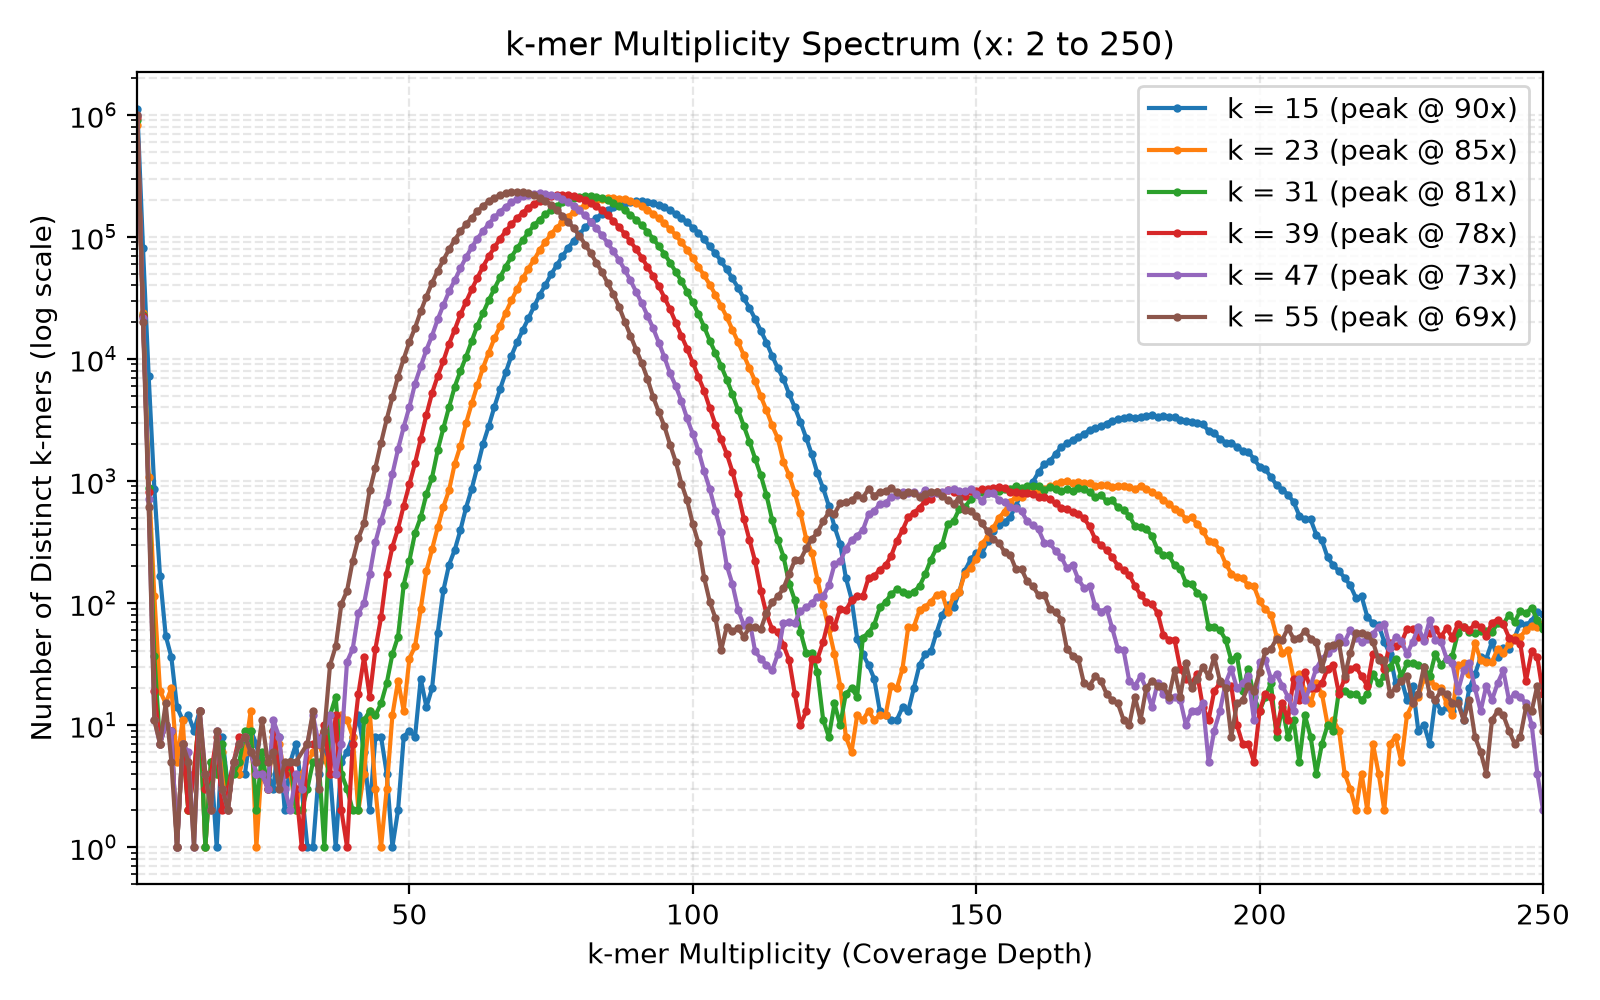
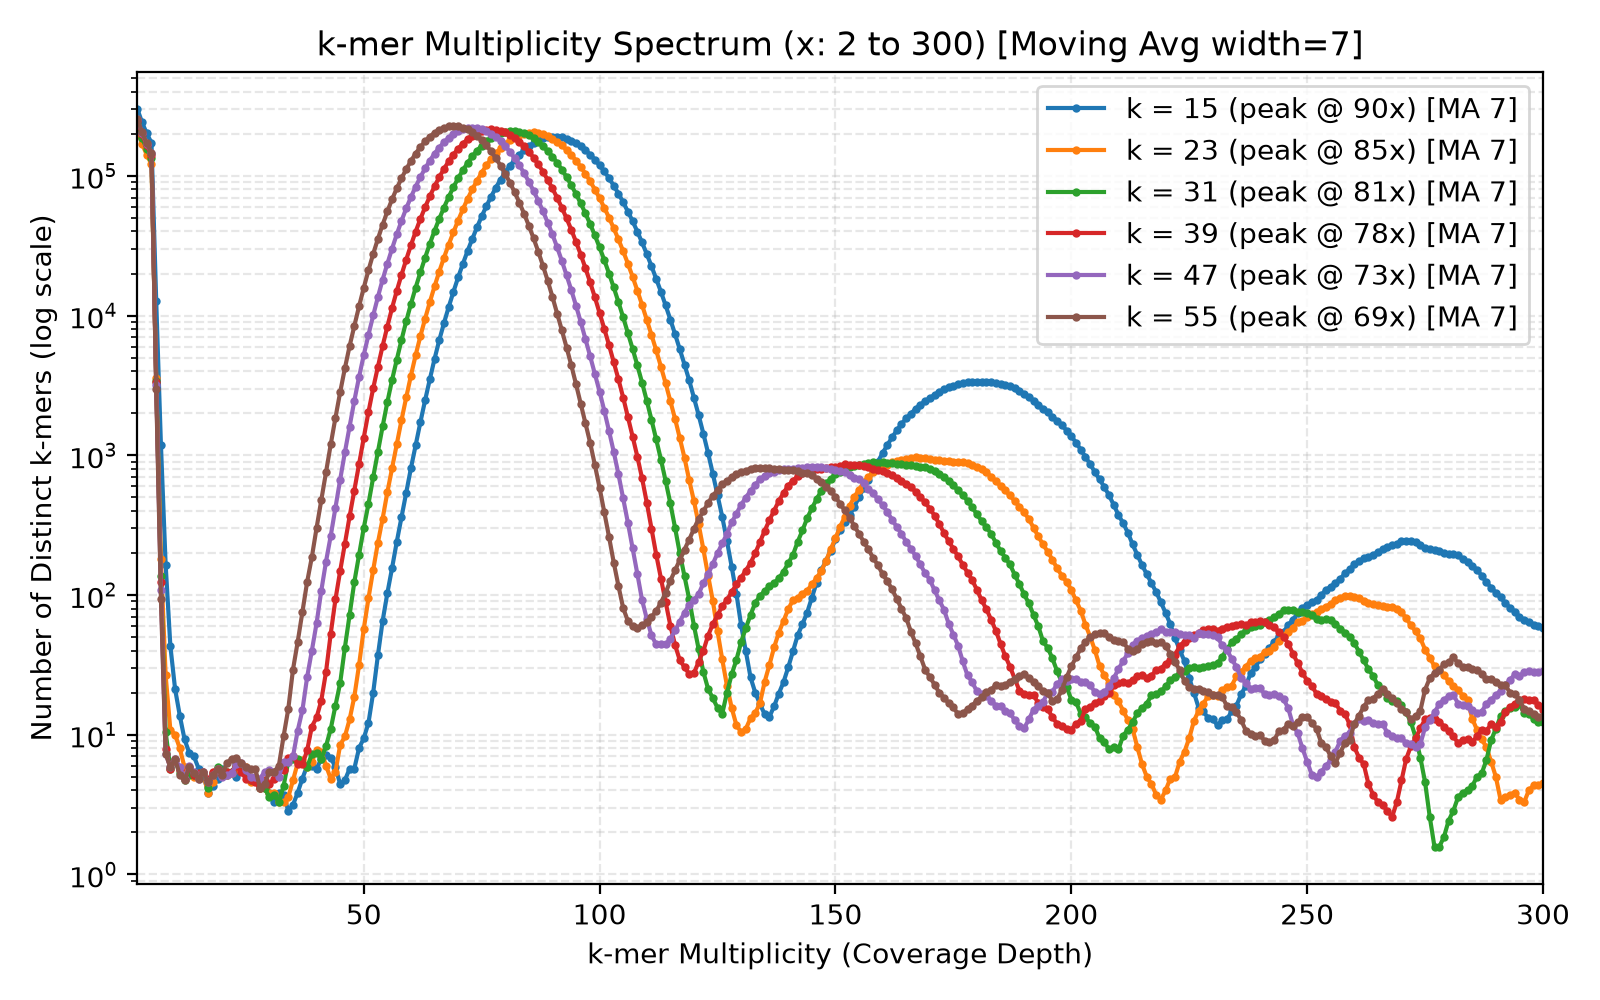
feat: add moving average smoothing support for k-mer multiplicity spectrum plots

diff --git a/kmerAnalysis.py b/kmerAnalysis.py
@@ -282,10 +282,44 @@ def save_spectrum_dataframe(results, output_path: str):
         return records
 
 
-def plot_from_dataframe(df_path_or_df, output_path: str = None, min_x: int = 1, max_x: int = 150):
+def compute_moving_average(x: list, y: list, window: int):
+    """
+    Compute a centered moving average over multiplicity spectrum counts.
+    - Centers the window so peak and valley positions remain preserved on the x-axis.
+    - Evaluates across a dense multiplicity grid to handle missing multiplicities correctly.
+    - Retains only positive smoothed values for log-scale plotting compatibility.
+    """
+    if not x or not y or window is None or window <= 1:
+        return list(x), list(y)
+
+    val_dict = dict(zip(x, y))
+    min_x, max_x = min(x), max(x)
+    dense_x = list(range(min_x, max_x + 1))
+    dense_y = [float(val_dict.get(xi, 0)) for xi in dense_x]
+
+    n = len(dense_y)
+    half = window // 2
+    smooth_x = []
+    smooth_y = []
+
+    for i in range(n):
+        left = max(0, i - half)
+        right = min(n, i + half + 1)
+        sub = dense_y[left:right]
+        avg = sum(sub) / len(sub) if sub else 0.0
+        if avg > 0:
+            smooth_x.append(dense_x[i])
+            smooth_y.append(avg)
+
+    return smooth_x, smooth_y
+
+
+def plot_from_dataframe(df_path_or_df, output_path: str = None, min_x: int = 1, max_x: int = 150,
+                        ma_width: int = None):
     """
     Re-generate the multiplicity spectrum plot directly from a saved DataFrame CSV
     or pandas DataFrame without re-running k-mer counting.
+    Supports centered moving average smoothing with customizable window width.
     """
     try:
         import matplotlib.pyplot as plt
@@ -305,9 +339,16 @@ def plot_from_dataframe(df_path_or_df, output_path: str = None, min_x: int = 1, 
         fig, ax = plt.subplots(figsize=(8, 5))
         for k_val, group in df.groupby("k"):
             sub = group[(group["multiplicity"] >= min_x) & (group["multiplicity"] <= max_x)]
+            x_vals = list(sub["multiplicity"])
+            y_vals = list(sub["count"])
+            if ma_width and ma_width > 1:
+                x_vals, y_vals = compute_moving_average(x_vals, y_vals, ma_width)
+
             peak_val = sub["genomic_peak"].iloc[0] if "genomic_peak" in sub.columns else "N/A"
-            ax.plot(sub["multiplicity"], sub["count"], marker=".", markersize=4,
-                    label=f"k = {k_val} (peak @ {peak_val}x)")
+            lbl = f"k = {k_val} (peak @ {peak_val}x)"
+            if ma_width and ma_width > 1:
+                lbl += f" [MA {ma_width}]"
+            ax.plot(x_vals, y_vals, marker=".", markersize=4, label=lbl)
 
     except ImportError:
         import csv
@@ -328,16 +369,25 @@ def plot_from_dataframe(df_path_or_df, output_path: str = None, min_x: int = 1, 
         for k_val, items in groupby(rows, key=lambda r: int(r["k"])):
             item_list = list(items)
             sub = [r for r in item_list if min_x <= int(r["multiplicity"]) <= max_x]
-            x = [int(r["multiplicity"]) for r in sub]
-            y = [int(r["count"]) for r in sub]
+            x_vals = [int(r["multiplicity"]) for r in sub]
+            y_vals = [int(r["count"]) for r in sub]
+            if ma_width and ma_width > 1:
+                x_vals, y_vals = compute_moving_average(x_vals, y_vals, ma_width)
+
             peak_val = sub[0].get("genomic_peak", "N/A") if sub else "N/A"
-            ax.plot(x, y, marker=".", markersize=4, label=f"k = {k_val} (peak @ {peak_val}x)")
+            lbl = f"k = {k_val} (peak @ {peak_val}x)"
+            if ma_width and ma_width > 1:
+                lbl += f" [MA {ma_width}]"
+            ax.plot(x_vals, y_vals, marker=".", markersize=4, label=lbl)
 
     ax.set_yscale("log")
     ax.set_xlim(left=min_x, right=max_x)
     ax.set_xlabel("k-mer Multiplicity (Coverage Depth)")
     ax.set_ylabel("Number of Distinct k-mers (log scale)")
-    ax.set_title(f"k-mer Multiplicity Spectrum (x: {min_x} to {max_x})")
+    title = f"k-mer Multiplicity Spectrum (x: {min_x} to {max_x})"
+    if ma_width and ma_width > 1:
+        title += f" [Moving Avg width={ma_width}]"
+    ax.set_title(title)
     ax.grid(True, which="both", alpha=0.3, linestyle="--")
     ax.legend(loc="upper right")
     plt.tight_layout()
@@ -350,11 +400,12 @@ def plot_from_dataframe(df_path_or_df, output_path: str = None, min_x: int = 1, 
     plt.close()
 
 
-def plot_spectra(results: list, output_path: str = None, min_x: int = 1, max_x: int = 150):
+def plot_spectra(results: list, output_path: str = None, min_x: int = 1, max_x: int = 150,
+                 ma_width: int = None):
     """
     Generate plots comparing multiplicity spectra, graph linearity,
     and branching fraction across candidate values of k.
-    Supports customizable x-axis limits (min_x, max_x).
+    Supports customizable x-axis limits (min_x, max_x) and moving average smoothing.
     """
     try:
         import matplotlib.pyplot as plt
@@ -375,13 +426,22 @@ def plot_spectra(results: list, output_path: str = None, min_x: int = 1, max_x: 
         spec = res["spectrum"]
         x = [c for c in range(min_x, max_x + 1) if c in spec]
         y = [spec[c] for c in x]
-        ax1.plot(x, y, marker=".", markersize=4, label=f"k = {k} (peak @ {res['genomic_peak']}x)")
+        if ma_width and ma_width > 1:
+            x, y = compute_moving_average(x, y, ma_width)
+
+        lbl = f"k = {k} (peak @ {res['genomic_peak']}x)"
+        if ma_width and ma_width > 1:
+            lbl += f" [MA {ma_width}]"
+        ax1.plot(x, y, marker=".", markersize=4, label=lbl)
 
     ax1.set_yscale("log")
     ax1.set_xlim(left=min_x, right=max_x)
     ax1.set_xlabel("k-mer Multiplicity (Coverage Depth)")
     ax1.set_ylabel("Number of Distinct k-mers (log scale)")
-    ax1.set_title(f"k-mer Multiplicity Spectrum across Candidate k (x: {min_x} to {max_x})")
+    title1 = f"k-mer Multiplicity Spectrum across Candidate k (x: {min_x} to {max_x})"
+    if ma_width and ma_width > 1:
+        title1 += f" [Moving Avg width={ma_width}]"
+    ax1.set_title(title1)
     ax1.grid(True, which="both", alpha=0.3, linestyle="--")
     ax1.legend(loc="upper right")
 
@@ -471,7 +531,8 @@ def print_comparison_table(results: list, theory: dict):
 def run_kmer_analysis(fasta_path: str, k_list: list, max_reads: int = 150000,
                       output_plot: str = None, output_df: str = None,
                       output_summary_df: str = None,
-                      min_x: int = 1, max_x: int = 150, genome_size: int = 4800000):
+                      min_x: int = 1, max_x: int = 150, ma_width: int = None,
+                      genome_size: int = 4800000):
     """Main execution pipeline."""
     theory = theoretical_bounds(genome_size=genome_size)
     results = []
@@ -527,7 +588,7 @@ def run_kmer_analysis(fasta_path: str, k_list: list, max_reads: int = 150000,
                 print(f"[*] Summary metrics saved to: {output_summary_df}")
 
     if output_plot:
-        plot_spectra(results, output_path=output_plot, min_x=min_x, max_x=max_x)
+        plot_spectra(results, output_path=output_plot, min_x=min_x, max_x=max_x, ma_width=ma_width)
 
     return results
 
@@ -550,6 +611,10 @@ def main():
                         help="Maximum k-mer multiplicity (x-axis limit) to plot (default: 150)")
     parser.add_argument("--min-x", "--x-min", type=int, default=1,
                         help="Minimum k-mer multiplicity (x-axis limit) to plot (default: 1)")
+    parser.add_argument("--moving-average", "--smooth", type=int, nargs="?", const=5, default=None, metavar="WIDTH",
+                        help="Apply moving average smoothing over spectrum counts for each k-mer curve (default width: 5)")
+    parser.add_argument("--ma-width", type=int, default=None, metavar="WIDTH",
+                        help="Window width for the moving average (alias for --moving-average)")
     parser.add_argument("--output-df", "--save-df", type=str, default=None,
                         help="File path to save spectrum results as a DataFrame CSV (e.g. ./kmer_spectrum_df.csv)")
     parser.add_argument("--output-summary-df", type=str, default=None,
@@ -561,10 +626,12 @@ def main():
 
     args = parser.parse_args()
 
+    ma_width = args.ma_width if args.ma_width is not None else args.moving_average
+
     # Re-plot directly from an existing DataFrame CSV
     if args.plot_from_df:
         print(f"[*] Generating plot directly from saved DataFrame: {args.plot_from_df}")
-        plot_from_dataframe(args.plot_from_df, output_path=args.output_plot, min_x=args.min_x, max_x=args.max_x)
+        plot_from_dataframe(args.plot_from_df, output_path=args.output_plot, min_x=args.min_x, max_x=args.max_x, ma_width=ma_width)
         return
 
     if not args.fasta:
@@ -584,6 +651,7 @@ def main():
         output_summary_df=args.output_summary_df,
         min_x=args.min_x,
         max_x=args.max_x,
+        ma_width=ma_width,
         genome_size=args.genome_size
     )
 
